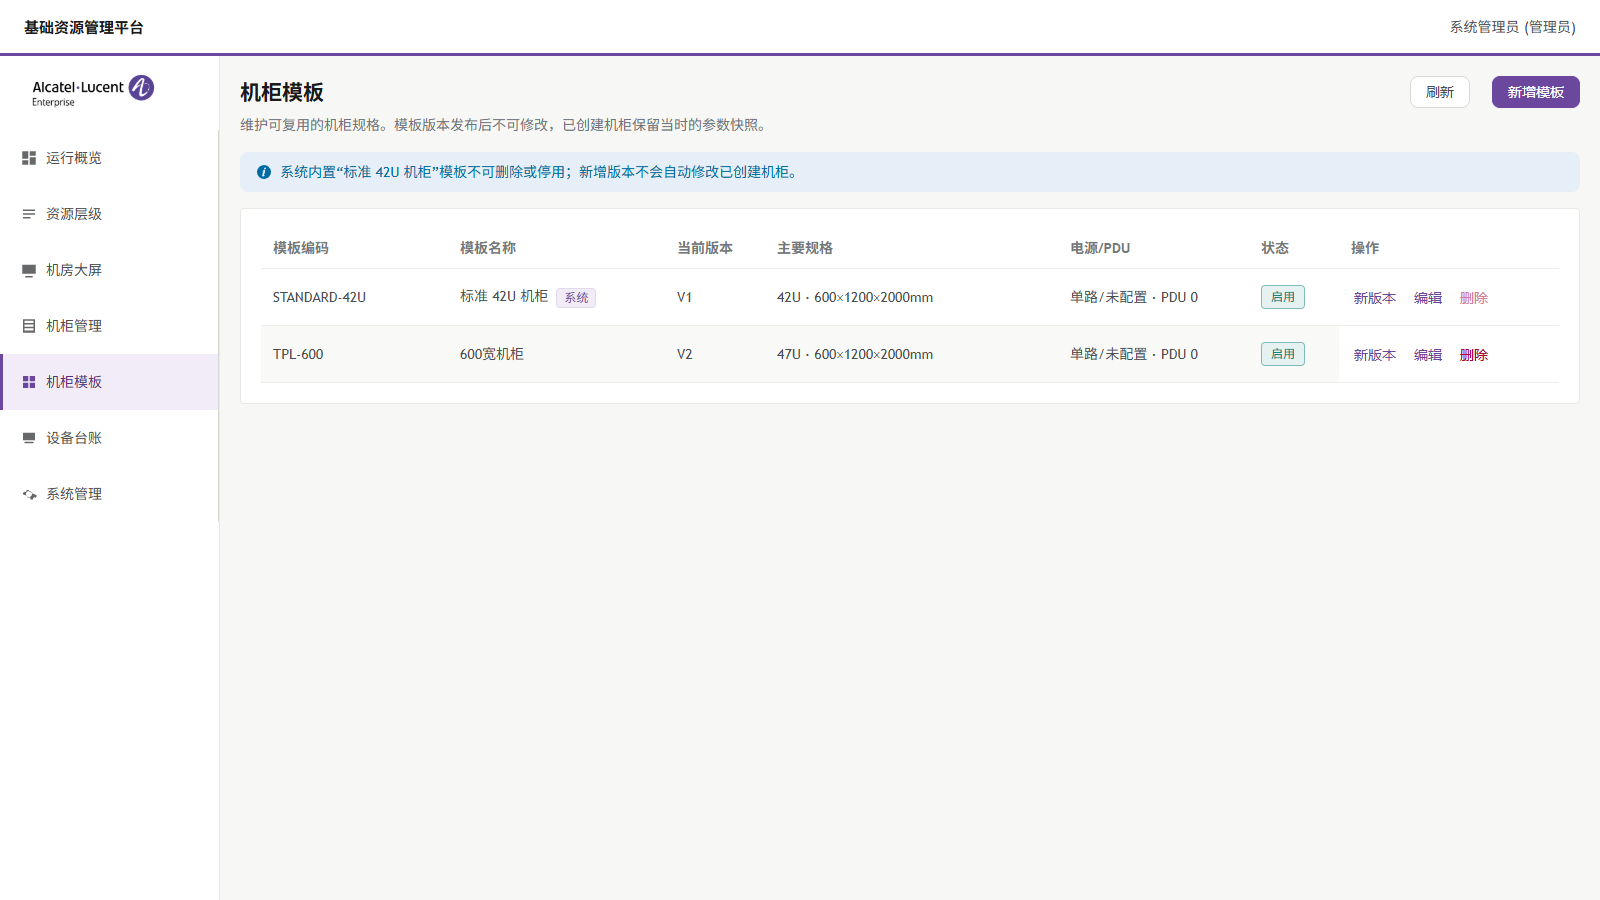
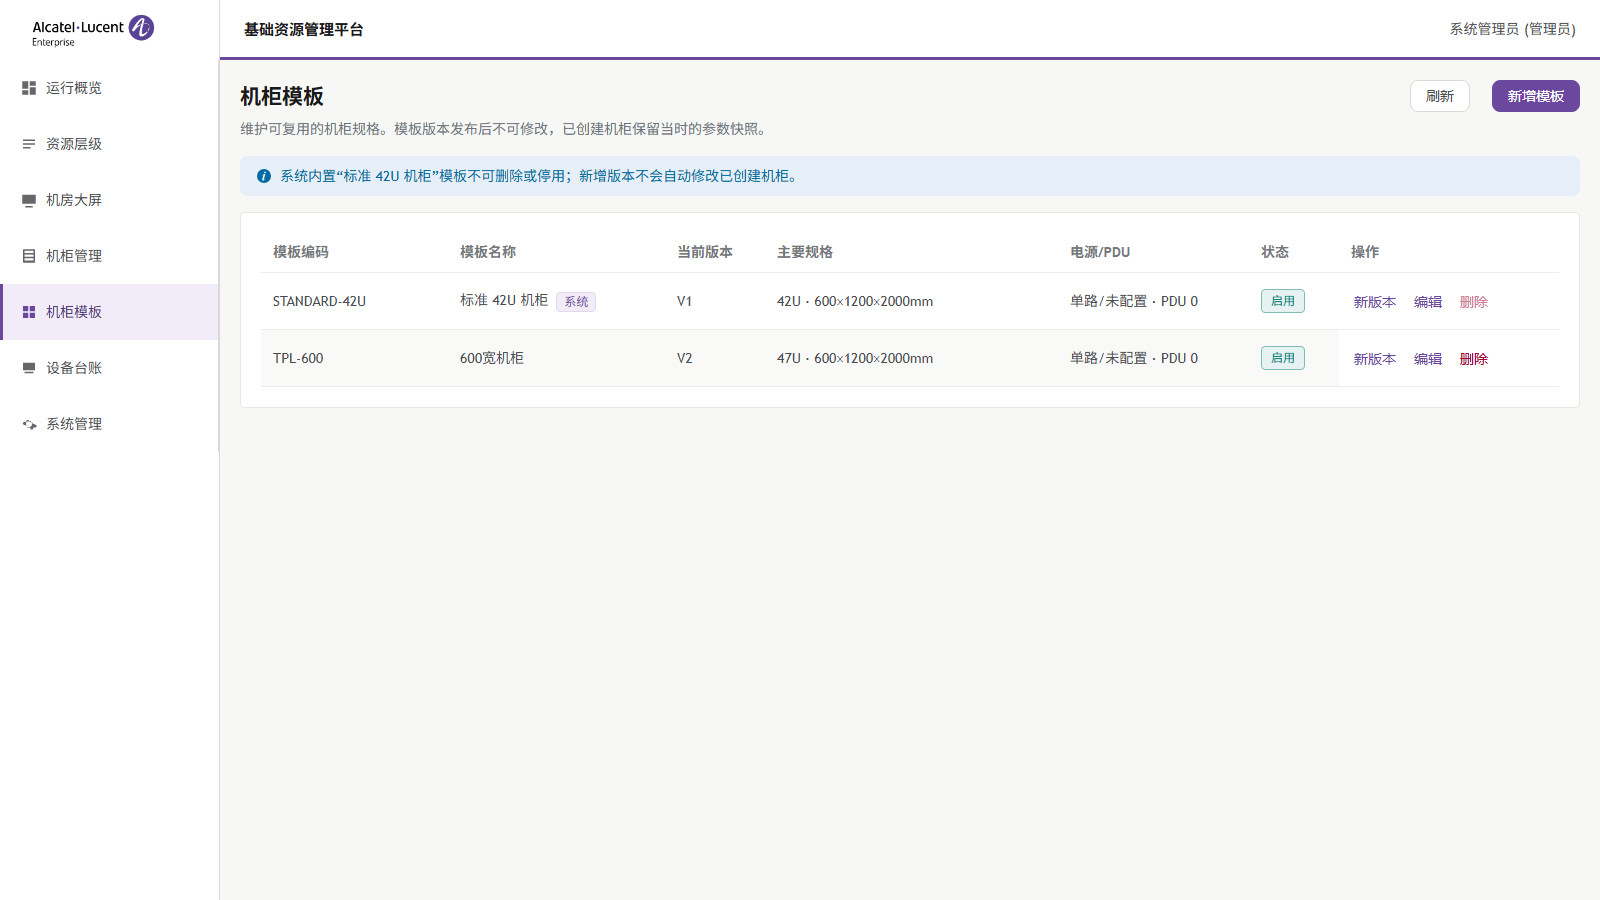
feat(frontend): align app shell to v2 DefaultLayout (UI-P1-02) + batch-B interactive checklist

diff --git a/frontend/app/src/app/layouts/AppLayout.vue b/frontend/app/src/app/layouts/AppLayout.vue
@@ -85,55 +85,57 @@ async function doLogout() {
 </script>
 
 <template>
+  <!-- 应用壳对齐 v2 DefaultLayout(评审 UI-P1-02):左侧栏全高(顶部 logo 块与顶栏同高
+       60px 齐平,logo 占左上角),顶栏从侧栏右缘开始(紫色签名线只横跨右侧段)。
+       菜单图标为评审已批准增强(v2 纯文字),保留。 -->
   <el-container class="layout">
-    <!-- 顶栏复刻 v2:浅底 + 左侧平台名 + 右侧工具区;紫色签名下边线由 ale-theme.css .topbar 提供 -->
-    <el-header class="topbar" height="56px">
-      <span class="topbar-title">基础资源管理平台</span>
-      <div class="topbar-right">
-        <el-select
-          v-if="overridesUnlocked()"
-          :model-value="uiVersion"
-          size="small"
-          class="ui-switch"
-          data-test="ui-version-switch"
-          @change="switchUi"
-        >
-          <el-option label="新版界面" value="new" />
-          <el-option label="旧版界面" value="legacy" />
-        </el-select>
-        <el-dropdown v-if="session.user">
-          <span class="user" data-test="user-menu">
-            {{ session.user.displayName || session.user.username }}
-            ({{ session.isAdmin ? "管理员" : "用户" }})
-          </span>
-          <template #dropdown>
-            <el-dropdown-menu>
-              <el-dropdown-item data-test="logout" @click="doLogout">退出登录</el-dropdown-item>
-            </el-dropdown-menu>
-          </template>
-        </el-dropdown>
-      </div>
-    </el-header>
-    <el-container>
-      <el-aside :width="'220px'" class="sidebar">
-        <!-- 文字被 ale-theme.css .sidebar .logo 置零,由伪元素渲染官方彩色 logo(与 v2 同源) -->
-        <div class="logo">ALE 机柜管理</div>
-        <el-menu :default-active="route.path" router>
-          <el-menu-item v-for="m in menu.filter((x) => x.auth)" :key="m.path" :index="m.path">
-            <svg
-              class="menu-icon"
-              viewBox="0 0 24 24"
-              width="18"
-              height="18"
-              fill="currentColor"
-              aria-hidden="true"
-            >
-              <path :d="m.icon" />
-            </svg>
-            {{ m.label }}
-          </el-menu-item>
-        </el-menu>
-      </el-aside>
+    <el-aside :width="'220px'" class="sidebar">
+      <!-- 文字被 ale-theme.css .sidebar .logo 置零,由伪元素渲染官方彩色 logo(与 v2 同源) -->
+      <div class="logo">ALE 机柜管理</div>
+      <el-menu :default-active="route.path" router>
+        <el-menu-item v-for="m in menu.filter((x) => x.auth)" :key="m.path" :index="m.path">
+          <svg
+            class="menu-icon"
+            viewBox="0 0 24 24"
+            width="18"
+            height="18"
+            fill="currentColor"
+            aria-hidden="true"
+          >
+            <path :d="m.icon" />
+          </svg>
+          {{ m.label }}
+        </el-menu-item>
+      </el-menu>
+    </el-aside>
+    <el-container class="right-col">
+      <el-header class="topbar" height="60px">
+        <span class="topbar-title">基础资源管理平台</span>
+        <div class="topbar-right">
+          <el-select
+            v-if="overridesUnlocked()"
+            :model-value="uiVersion"
+            size="small"
+            class="ui-switch"
+            data-test="ui-version-switch"
+            @change="switchUi"
+          >
+            <el-option label="新版界面" value="new" />
+            <el-option label="旧版界面" value="legacy" />
+          </el-select>
+          <el-dropdown v-if="session.user">
+            <span class="user" data-test="user-menu">
+              {{ session.user.displayName || session.user.username }}
+              ({{ session.isAdmin ? "管理员" : "用户" }})
+            </span>
+            <template #dropdown>
+              <el-dropdown-menu>
+                <el-dropdown-item data-test="logout" @click="doLogout">退出登录</el-dropdown-item>
+              </el-dropdown-menu>
+            </template>
+          </el-dropdown>
+        </div>
+      </el-header>
       <el-main class="main main-content">
         <router-view />
       </el-main>
@@ -169,17 +171,13 @@ async function doLogout() {
   color: var(--el-text-color-regular, #4b4d50);
   cursor: pointer;
 }
-.sidebar {
-  background: #ffffff;
-  border-right: 1px solid var(--el-border-color-light, #e9e8e4);
-}
 .menu-icon {
   display: inline-block;
   margin-right: 8px;
   vertical-align: -3px;
   opacity: 0.85;
 }
-.el-menu-item.is-active .menu-icon {
+:deep(.el-menu-item.is-active) .menu-icon {
   color: #6b489d;
   opacity: 1;
 }

diff --git a/frontend/app/src/design-system/ale-theme.css b/frontend/app/src/design-system/ale-theme.css
@@ -170,14 +170,16 @@ body {
 /* 侧栏品牌位：官方彩色 Logo（附录 D.2）
    - 浅色背景彩色版；等比 height，禁止拉伸
    - 与下方菜单文字左缘对齐（padding 0 20px，同 el-menu-item）
-   - 垂直居中；净空靠上下留白，不画侵入分隔线 */
+   - 垂直居中；净空靠上下留白，不画侵入分隔线
+   - 高度 60px = v2 DefaultLayout .logo 真值,与顶栏(el-header 60px)同高齐平——
+     应用壳结构对齐(评审 UI-P1-02):logo 占左上角,与右侧平台标题同行 */
 .sidebar .logo {
   font-size: 0 !important;
   color: transparent !important;
-  height: 68px !important;
+  height: 60px !important;
   line-height: normal !important;
   padding: 0 20px !important;
-  margin-bottom: 6px !important;
+  margin-bottom: 0 !important;
   border-bottom: none !important;
   box-sizing: border-box !important;
   display: flex !important;

diff --git a/docs/REVIEW-BATCH-B-INTERACTIVE-CHECKLIST-20260913.md b/docs/REVIEW-BATCH-B-INTERACTIVE-CHECKLIST-20260913.md
@@ -1,0 +1,93 @@
+# 评审批次 B：六屏人工交互验收矩阵（2026-09-13）
+
+> 依据：《第六轮新旧UI复刻质量与主入口接替评审-20260913.md》§1.1 条件 4 与 §6 批次 B——
+> "对六屏执行一次人工交互验收，覆盖按钮、对话框、筛选、分页、导入导出、返回和错误态；
+> 不能只依据静态截图及成功路径 E2E"。
+> 环境：`10.20.30.203:19502`（main@29bb51b 起），凭证 dev 栈 `admin/admin123456`；
+> 写操作一律用 `MTX2-` 前缀创建临时资源并当场清理（与 e2e 的 `MTX-`/`DUAL-` 隔离）。
+> 状态图例：✅=已有自动化证据　🔧=可自动化、待写授权排期补齐　👤=必须人工现场执行。
+
+## 1. 通用项（六屏共有，AppLayout 层）
+
+| 项 | 状态 | 证据/说明 |
+|---|---|---|
+| 应用壳结构对齐 v2 | 👤 | PR #58：logo 占左上角与顶栏 60px 齐平、顶栏自侧栏右缘起（紫线只跨右段）；对照截图随 PR 附 |
+| 菜单导航/权限菜单 | ✅ | matrix 三权限矩阵（admin 有系统管理、user 无 + /admin 守卫重定向） |
+| 浏览器返回 | 🔧 | 各屏返回按钮已有；浏览器级返回恢复待人工（自动化的 history 行为已由路由守卫单测覆盖） |
+| 刷新恢复 | 👤 | F5 后停留当前路由、会话保持、数据重载 |
+| 401 过期全局收口 | ✅ | 单测+e2e（token 清除、守卫弹回 /login） |
+| 错误边界/接口 5xx 文案 | 👤 | 人工断后端或改代理触发（避免污染测试库） |
+
+## 2. 屏 1 运行概览（/）
+
+| 项 | 状态 | 证据/说明 |
+|---|---|---|
+| 加载/统计卡口径 | ✅ | e2e dashboard 文本断言（四统计卡/开发进度/服务在线） |
+| 空态/筛选/分页/CRUD | — | 页面无此类交互 |
+| 跳转入口 | ✅ | 三链接路由存在（e2e shell 断言） |
+
+## 3. 屏 2 资源层级（/data-centers）
+
+| 项 | 状态 | 证据/说明 |
+|---|---|---|
+| 加载/三栏级联选中 | ✅ | e2e（MTX-DC 出现、第二 DC 空机房空态提示） |
+| 创建 DC/机房/机柜 | 🔧 | 表单打开/校验已由单测覆盖；真实提交待补自动化（写授权） |
+| 编辑/复制/移动 | 🔧 | 对话框渲染单测覆盖；写链路待补 |
+| 删除取消/删除失败 | 👤 | 取消路径人工点一遍；失败路径（含设备机柜拒绝删除）需构造 |
+| 分页 | — | 机柜表走后端分页，同屏 4 |
+| 空态 | ✅ | e2e（切第二 DC 空机房） |
+
+## 4. 屏 3 设备台账（/devices）
+
+| 项 | 状态 | 证据/说明 |
+|---|---|---|
+| 加载/九列表格/三列恢复 | ✅ | e2e 表头+行断言；19502 现场抽查 20260913（截图存档） |
+| 筛选/搜索差分 | ✅ | e2e 新旧双跑（生命周期筛选、MTX-DV2 搜索） |
+| 分页 | 👤 | 人工翻页核对总数与统计卡（147 台现存） |
+| 创建/编辑设备 | 🔧 | 表单校验单测覆盖；真实提交待补（MTX2- 前缀） |
+| 删除取消/删除失败 | 👤 | 人工（含在位设备删除被后端拒绝路径） |
+| 批量导入 | ✅(预览)/🔧(提交) | e2e 已验证模板下载/文件解析/校验预览/匹配；真实提交+结果回执待补一行 MTX2- 数据 |
+| 导出设备信息 | ✅ | e2e Node 侧读文件：43 列、当前筛选口径；19502 现场抽查 |
+| U 位视图 Tab | ✅ | fetchULayout 映射修复后单测+页面断言 |
+
+## 5. 屏 4 机柜管理（/racks）
+
+| 项 | 状态 | 证据/说明 |
+|---|---|---|
+| 加载/四统计卡/筛选/搜索 | ✅ | e2e（MTX- 两柜、状态中文、搜索收窄） |
+| 创建机柜（自动/手工编码） | 🔧 | 对话框+编码冲突重试单测覆盖；真实提交待补 |
+| 编辑/详情抽屉/U 位入口 | ✅ | e2e U 位跳转（/devices?tab=layout&rackId）；详情抽屉人工过一遍 |
+| 删除取消/删除失败（柜内有设备） | 👤 | 人工构造 |
+| 批量导入（CSV） | 🔧 | 校验逻辑同 v2 口径已实现；真实提交待补；格式差异=登记项（CSV 替代 xlsx） |
+| 分页 | 👤 | 人工（90 柜存量） |
+
+## 6. 屏 5 机柜模板（/rack-templates）
+
+| 项 | 状态 | 证据/说明 |
+|---|---|---|
+| 加载/系统模板标记 | ✅ | e2e（标准 42U 模板+系统 tag） |
+| 新增（初始版本参数）/编辑 | 🔧 | 表单渲染单测；真实提交待补 |
+| 发布新版本→当前版本立即更新 | 👤 | 人工发布一版并核对当前版本列与旧机柜快照不变（评审 3.5 验收点） |
+| 系统模板删除禁用 | ✅ | e2e 断言禁用态 |
+
+## 7. 屏 6 机房大屏（/room-screen）
+
+| 项 | 状态 | 证据/说明 |
+|---|---|---|
+| 加载/暗色/像素基准 | ✅ | e2e mtx-new-room-screen 基准（mask 时钟） |
+| 三空态 | ✅ | e2e+单测（⌗/▥/◍） |
+| 状态筛选 chips/图例筛选 | ✅ | e2e+单测 |
+| 拖动换槽位（持久化坐标） | ✅ | e2e 早期覆盖拖拽 swap；19502 现场复核建议 👤 |
+| 上架/迁移/下架 | ✅ | e2e（写链路经 MTX- 种子，teardown 清理） |
+| 设备查看详情/编辑（第 7 轮新增） | ✅ | e2e 菜单四项+抽屉分组+编辑对话框；19502 现场抽查 20260913 |
+| 保存后原地更新/高度冲突报错 | 👤 | 人工改高度触发后端占用拒绝路径 |
+| 机柜图导出→回导校验 | ✅ | e2e 真后端闭环（0 错误 0 待确认，不 commit） |
+| PDU 管理/供电连接 | ✅ | PR #54 实测闭环；现场复核 👤 |
+| 容量分析"无法计算"口径 | ✅ | e2e 指标卡断言 |
+| 返回/全屏/时钟 | ✅ | 基准 mask+导航断言 |
+
+## 8. 执行建议
+
+1. **人工过一遍的顺序**：通用项 → 屏3 分页/删除路径 → 屏4 删除失败 → 屏5 发布新版本 → 屏6 拖拽复核+高度冲突，全程对照 `:19501` 旧 UI 同屏操作；预计 60-90 分钟。
+2. **🔧 项的自动化补齐**（写授权后一批做）：六屏 CRUD 真实提交走 `MTX2-` 前缀 + teardown 自清理，复用 matrix.spec 的 loginAs/api 基建；导入真实提交补一行数据闭环。
+3. 验收中发现的问题按"契约差异/如实化登记/缺陷"三分类记录，缺陷标 P0-P2，回到标准闭环流程。
